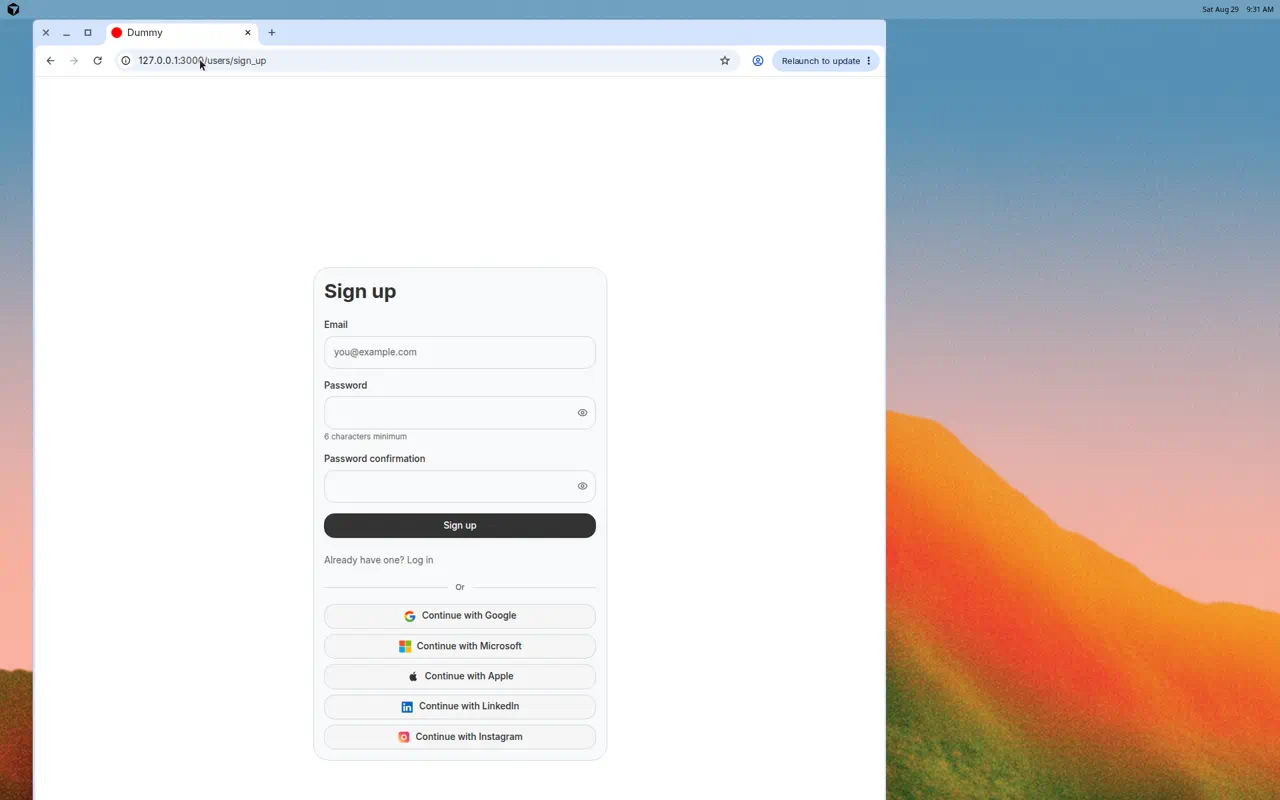
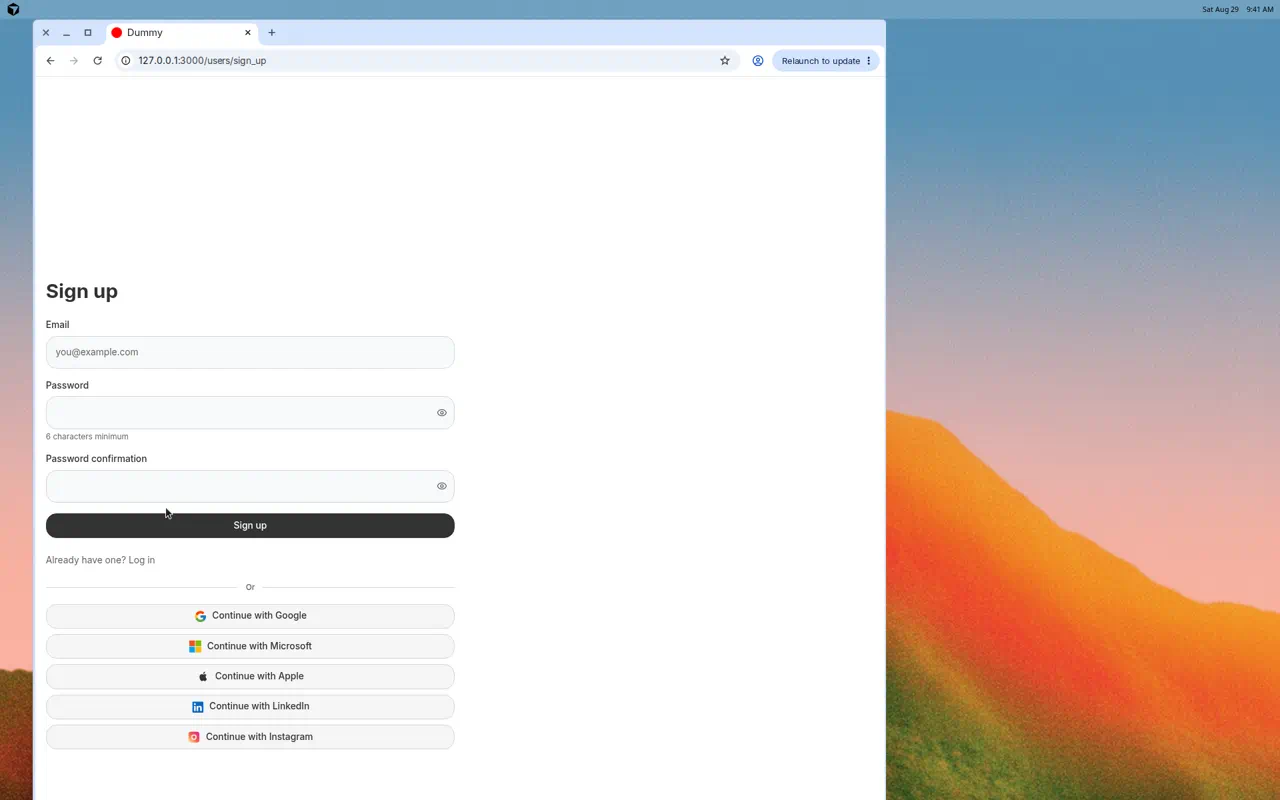
Drop Card and Remember me; add configurable login_title
Dummy login/signup use Grid cols:2 width cap without a Card. Login
heading defaults to Welcome back via config.login_title (install
template comments it). Remember me is omitted from the form. Recapture
review stills for DJ.

diff --git a/test/dummy/test/integration/login_page_test.rb b/test/dummy/test/integration/login_page_test.rb
@@ -1,0 +1,35 @@
+# frozen_string_literal: true
+
+require "test_helper"
+
+class LoginPageTest < ActionDispatch::IntegrationTest
+  test "login paints Welcome back without Card or Remember me" do
+    get new_user_session_path
+
+    assert_response :success
+    assert_select "html[data-theme='rounded']"
+    assert_select "h2", text: "Welcome back"
+    assert_select "input[type='email'][name='user[email]']"
+    assert_select "input[type='password'][name='user[password]']"
+    assert_select "input[name='user[remember_me]']", count: 0
+    assert_select "button[type='submit']", text: "Sign in"
+    refute_includes response.body, "Remember me"
+    refute_includes response.body, "FlatPack::Card"
+    assert_includes response.body, "Don't have an account?"
+    assert_includes response.body, "Continue with Google"
+    assert_match(/\bOr\b/, response.body)
+    assert_includes response.body, "Default: admin@admin.com / Password"
+  end
+
+  test "login title follows RecordingStudioUser.config.login_title" do
+    original = RecordingStudioUser.config.login_title
+    RecordingStudioUser.config.login_title = "Sign in to Acme"
+
+    get new_user_session_path
+
+    assert_response :success
+    assert_select "h2", text: "Sign in to Acme"
+  ensure
+    RecordingStudioUser.config.login_title = original
+  end
+end

diff --git a/lib/recording_studio_user/configuration.rb b/lib/recording_studio_user/configuration.rb
@@ -1,6 +1,8 @@
 # frozen_string_literal: true
 
 module RecordingStudioUser
+  DEFAULT_LOGIN_TITLE = "Welcome back"
+
   class Configuration
     PROTECTED_PROFILE_ATTRIBUTES = %w[
       id email password password_confirmation encrypted_password reset_password_token
@@ -10,7 +12,7 @@ module RecordingStudioUser
 
     attr_accessor :user_class_name, :layout
     attr_reader :mount_path, :profile_route_path, :admin_route_path, :additional_profile_attributes,
-                :require_password_confirmation, :omniauth_providers, :omniauth_create_account
+                :require_password_confirmation, :login_title, :omniauth_providers, :omniauth_create_account
 
     def initialize
       @user_class_name = "User"
@@ -20,6 +22,7 @@ module RecordingStudioUser
       @layout = "application"
       @additional_profile_attributes = []
       @require_password_confirmation = true
+      @login_title = DEFAULT_LOGIN_TITLE
       @omniauth_providers = {}
       @omniauth_create_account = true
     end
@@ -30,6 +33,10 @@ module RecordingStudioUser
 
     def require_password_confirmation?
       require_password_confirmation
+    end
+
+    def login_title=(value)
+      @login_title = value.to_s.strip.presence || DEFAULT_LOGIN_TITLE
     end
 
     def omniauth_create_account=(value)

diff --git a/test/configuration_test.rb b/test/configuration_test.rb
@@ -16,6 +16,7 @@ class ConfigurationTest < Minitest::Test
     assert_empty @configuration.additional_profile_attributes
     assert @configuration.require_password_confirmation
     assert_predicate @configuration, :require_password_confirmation?
+    assert_equal "Welcome back", @configuration.login_title
     assert_empty @configuration.omniauth_providers
     assert @configuration.omniauth_create_account
     assert_predicate @configuration, :omniauth_create_account?
@@ -28,6 +29,14 @@ class ConfigurationTest < Minitest::Test
 
     @configuration.require_password_confirmation = "true"
     assert_predicate @configuration, :require_password_confirmation?
+  end
+
+  def test_login_title_defaults_and_rejects_blank
+    @configuration.login_title = "Sign in to Acme"
+    assert_equal "Sign in to Acme", @configuration.login_title
+
+    @configuration.login_title = "  "
+    assert_equal "Welcome back", @configuration.login_title
   end
 
   def test_omniauth_flags_and_providers

diff --git a/test/install_generator_test.rb b/test/install_generator_test.rb
@@ -22,6 +22,7 @@ class InstallGeneratorTest < Minitest::Test
     assert_includes initializer, "Route configuration must load before Rails draws routes."
     assert_includes initializer, "additional_profile_attributes"
     assert_includes initializer, "require_password_confirmation"
+    assert_includes initializer, "login_title"
     assert_includes initializer, "omniauth_providers"
     assert_includes initializer, "omniauth_create_account"
     assert_includes initializer, "recording_studio_user/omniauth_callbacks"

diff --git a/lib/generators/recording_studio_user/install/templates/recording_studio_user_initializer.rb b/lib/generators/recording_studio_user/install/templates/recording_studio_user_initializer.rb
@@ -9,6 +9,8 @@ RecordingStudioUser.configure do |config|
   config.layout = "application"
   config.additional_profile_attributes = []
   config.require_password_confirmation = true
+  # Devise login page heading (host sessions#new). Default "Welcome back".
+  # config.login_title = "Welcome back"
   # OmniAuth providers. Empty hash keeps login/sign-up without provider buttons.
   # Secrets stay in host credentials / ENV — never commit real keys.
   #

diff --git a/README.md b/README.md
@@ -57,6 +57,7 @@ RecordingStudioUser.configure do |config|
   config.layout = "application"
   config.additional_profile_attributes = []
   config.require_password_confirmation = true
+  # config.login_title = "Welcome back"
   config.omniauth_providers = {
     google_oauth2: {
       client_id: Rails.application.credentials.dig(:google_oauth, :client_id) || ENV["GOOGLE_CLIENT_ID"],
@@ -210,6 +211,8 @@ RecordingStudioUser.profile_image_recording_for(user)
 
 `require_password_confirmation` defaults to `true`. Host Devise sign-up should hide the confirmation field and skip the param when this is `false`. The included `ProfiledUser` concern copies `password` into `password_confirmation` so Devise Validatable does not fail.
 
+`login_title` defaults to `"Welcome back"` for the host Devise login heading. Blank values fall back to that default.
+
 Mounted profile show/edit/update still authenticate with Devise, then authorize with `RecordingStudioAccessible.authorized?` on the current user's Profile recording. Do not add a `current_user`-only ACL, `can_access?`, or hand-built Access rows.
 
 Flash notices come from the host layout. Profile show does not render `notice` again. When the host uses Recording Studio's default layout, that layout already draws `flash[:notice]` as a FlatPack alert.
@@ -226,7 +229,7 @@ The host owns administration and must create its admin recordable/root, mount Re
 
 ## Dummy app
 
-The dummy keeps Devise login at `/users/sign_in` and sign up at `/users/sign_up`. Both use the same Flatpack auth stack (Card + Grid width cap): title, fields, primary Sign in / Sign up, cross-link, Flatpack Divider `Or`, then full-width **Continue with {Provider}** secondary buttons for every configured OmniAuth provider — not a Users product registration flow. Login keeps Remember me; sign-up password confirmation stays host-configurable. The login seed hint sits under the card. OmniAuth runs in test mode with mocks for Google, Microsoft, Apple, LinkedIn, and Instagram so CI and screenshots do not need live apps. Signed-in pages use core `recording_studio/default_layout` via `RecordingStudio::UsesDefaultLayout` (PageNav back/close). Devise pages keep `layouts/application` with `html data-theme="rounded"`. Dummy does not copy or override core's default layout. Core puts `data-theme="rounded"` on `body`; Flatpack named-theme tokens resolve on `html` / `:root`, so dummy's `recording_studio/_default_layout_head` sets `document.documentElement.dataset.theme` to `rounded` so primary buttons inherit charcoal, not `:root` blue. Dummy pins Flatpack `v0.1.142` for Divider.
+The dummy keeps Devise login at `/users/sign_in` and sign up at `/users/sign_up`. Both use the same Flatpack auth stack with a Grid `cols: 2` width cap (no Card): `login_title` (default **Welcome back**) / **Sign up**, fields, primary Sign in / Sign up, cross-link, Flatpack Divider `Or`, then full-width **Continue with {Provider}** secondary buttons for every configured OmniAuth provider — not a Users product registration flow. Login does not show Remember me (Devise rememberable may stay on). Sign-up password confirmation stays host-configurable. The login seed hint sits under the form. OmniAuth runs in test mode with mocks for Google, Microsoft, Apple, LinkedIn, and Instagram so CI and screenshots do not need live apps. Signed-in pages use core `recording_studio/default_layout` via `RecordingStudio::UsesDefaultLayout` (PageNav back/close). Devise pages keep `layouts/application` with `html data-theme="rounded"`. Dummy does not copy or override core's default layout. Core puts `data-theme="rounded"` on `body`; Flatpack named-theme tokens resolve on `html` / `:root`, so dummy's `recording_studio/_default_layout_head` sets `document.documentElement.dataset.theme` to `rounded` so primary buttons inherit charcoal, not `:root` blue. Dummy pins Flatpack `v0.1.142` for Divider.
 
 Profile show/edit are that chrome only — no sidebar, Sign out, Root Switchable, or Access slot. Show is Avatar plus Edit and Sign-in methods at `:xl`. Edit hosts a `profile-photo` Turbo frame at `:"2xl"` (Flatpack `v0.1.142`) with Attachable's file button for Add/Change. Connect / Disconnect live on `/recording_studio_users/profile/sign-in-methods`. Dummy still mounts Attachable and keeps a leftover attachment-show override (one core PageNav) if that URL is opened directly. Seeded accounts include:
 

diff --git a/CHANGELOG.md b/CHANGELOG.md
@@ -18,16 +18,18 @@ and this project adheres to [Semantic Versioning](https://semver.org/spec/v2.0.0
 - Owner-only **Sign-in methods** page at `profile/sign-in-methods` (Flatpack Card + List with configured provider logo). Connected rows use Disconnect; each configured but unlinked provider gets the same row with Connect (secondary, sm). Edit Profile stays photo + name + timezone only (no Sign-in methods link). Avatar uses profile name for initials / alt — never the word “Avatar”. My Profile show stays read-only with **Edit** and **Sign-in methods** actions (no `page_nav_back_*`; core Flatpack PageNav still paints history.back — see notes).
 - Optional `omniauth_providers[:provider][:logo]` (URL or inline SVG). Gem ships default SVGs for all five. Flatpack List has no first-class image-URL lead; SVG uses `icon:`, image URLs use `leading:` with an `<img>`. `:logo` is stripped before Devise strategy registration.
 - **Email caveats:** first login without email fails closed (`MissingEmailError`). Instagram often has no email; Apple may send it only once / as a relay. Connect-from-profile still works with a blank `Identity.email`.
+- `RecordingStudioUser::Configuration#login_title` (default `"Welcome back"`) for the host Devise login heading. Blank values fall back to the default. Install generator comments the option.
 
 ### Changed
 - Host `devise_for` must route OmniAuth callbacks to Users: `controllers: { omniauth_callbacks: "recording_studio_user/omniauth_callbacks" }`. ProfiledUser adds `:omniauthable` when providers are present and sets `password_required?` false while an identity exists.
 - Migrations generator also copies the identities table.
-- Dummy Devise login and sign-up use the Flatpack auth stack: title → fields → primary button → cross-link → `Divider` (`label: "Or"`) → full-width secondary Continue-with buttons (provider logo via `icon:`). Seed hint sits under the login card, not in the form. Requires Flatpack `~> 0.1.142` (Divider). Button `icon:` SVG logos use a small engine shim until Flatpack Button mirrors List::Item.
+- Dummy Devise login and sign-up use the Flatpack auth stack without a Card: Grid `cols: 2` width cap → title → fields → primary button → cross-link → `Divider` (`label: "Or"`) → full-width secondary Continue-with buttons (provider logo via `icon:`). Login omits Remember me. Seed hint sits under the login form, not inside it. Requires Flatpack `~> 0.1.142` (Divider). Button `icon:` SVG logos use a small engine shim until Flatpack Button mirrors List::Item.
 
 ### Upgrade notes
 - Bump to `0.6.0`. Requires Flatpack `~> 0.1.142` (git tag `v0.1.142`).
 - Run `bin/rails generate recording_studio_user:migrations` and `bin/rails db:migrate` for `recording_studio_user_identities`.
 - Set `config.omniauth_providers` (per-provider `client_id` / `client_secret` from credentials or ENV; optional `logo` and strategy options such as Apple `team_id` / `key_id` / `pem`) and `config.omniauth_create_account` as needed. Point `devise_for :users` OmniAuth callbacks at `recording_studio_user/omniauth_callbacks`.
+- Optional `config.login_title` (default `"Welcome back"`) for the Devise login heading.
 - Mount Sign-in methods at the engine profile route (`…/profile/sign-in-methods`). Link it from My Profile; keep Connect/Disconnect off show and off Edit.
 - Render `recording_studio_user/omniauth/continue_with_providers` on host Devise login/sign-up when any provider is configured (replaces the old Google-only partial name). The partial includes the labeled Or divider and one Continue button per provider. Secrets stay out of the repo.
 - OAuth tokens are not stored. Login needs provider, uid, and email (except Connect-while-signed-in, which tolerates a blank email).

diff --git a/test/dummy/README.md b/test/dummy/README.md
@@ -6,7 +6,7 @@ This Rails application demonstrates RecordingStudioUser in a host application.
 - This gem owns the shared **People** root and **Profile** snapshots (`user_id` on Profile).
 - One profile image is an Attachable child of the Profile recording. Dummy mounts Attachable and Active Storage.
 - Workspace remains the host-owned bucket. Access-controlled, read-only reporting on sitewide users is still mounted.
-- Signed-in pages use Recording Studio's default layout (`RecordingStudio::UsesDefaultLayout`). Devise keeps `layouts/application` with `html data-theme="rounded"`. Dummy does not own `recording_studio/default_layout`. A `recording_studio/_default_layout_head` hook sets the same theme on signed-in pages so Flatpack primary tokens resolve on `:root`. Login and sign up share the Flatpack auth stack: title → fields → primary button → cross-link → Divider `Or` → full-width Continue-with buttons (provider logos via `icon:`). Login seed hint sits under the card. OmniAuth test mode mocks Google, Microsoft, Apple, LinkedIn, and Instagram. They are not a Users product registration flow.
+- Signed-in pages use Recording Studio's default layout (`RecordingStudio::UsesDefaultLayout`). Devise keeps `layouts/application` with `html data-theme="rounded"`. Dummy does not own `recording_studio/default_layout`. A `recording_studio/_default_layout_head` hook sets the same theme on signed-in pages so Flatpack primary tokens resolve on `:root`. Login and sign up share the Flatpack auth stack with Grid `cols: 2` width cap (no Card): `login_title` (default Welcome back) / Sign up → fields → primary button → cross-link → Divider `Or` → full-width Continue-with buttons (provider logos via `icon:`). No Remember me on login. Login seed hint sits under the form. OmniAuth test mode mocks Google, Microsoft, Apple, LinkedIn, and Instagram. They are not a Users product registration flow.
 - Profile show/edit are PageNav chrome only. The right slot stays empty. There is no Access control, sidebar Sign out, or Root Switchable on those screens. Show puts Edit and Sign-in methods in the page title and one elevated identity Card (no `page_nav_back_*`; Flatpack PageNav may still paint history.back). A two-column Grid wraps the Card only (desktop width cap). Inside the card, Avatar sits above unlabeled name, email, and time zone in one column. Empty photos use profile-name initials (never the word “Avatar”). Edit hosts a `profile-photo` Turbo frame with Flatpack Avatar (`attachment_preview_url`, `size: :"2xl"`, name/alt from the profile) plus Attachable `render_attachment_file_button` for Add/Change — photo + name + timezone + Update/Cancel only. Connect / Disconnect live on `/recording_studio_users/profile/sign-in-methods` as matching Card + List rows with the configured provider logos. Dummy pins Flatpack `v0.1.142` (Divider + `:"2xl"` Avatar). An `mb-8` wrapper around the frame separates the photo row from First name. Edit puts the form in one cell of a two-column Flatpack Grid (the other cell stays empty) so fields do not stretch full-bleed on a wide screen. Each field is still its own full-width row. Update profile and Cancel are separate Flatpack buttons, not a ButtonGroup. Edit subtitle is the profile name (not `large_subtitle`).
 - Review screenshots for Google OAuth live under `docs/review/google-oauth/`.
 - Dummy still overrides Attachable's leftover attachment show so that gem's in-view PageNav is not stacked on top of core's. Profile screens do not link there.
